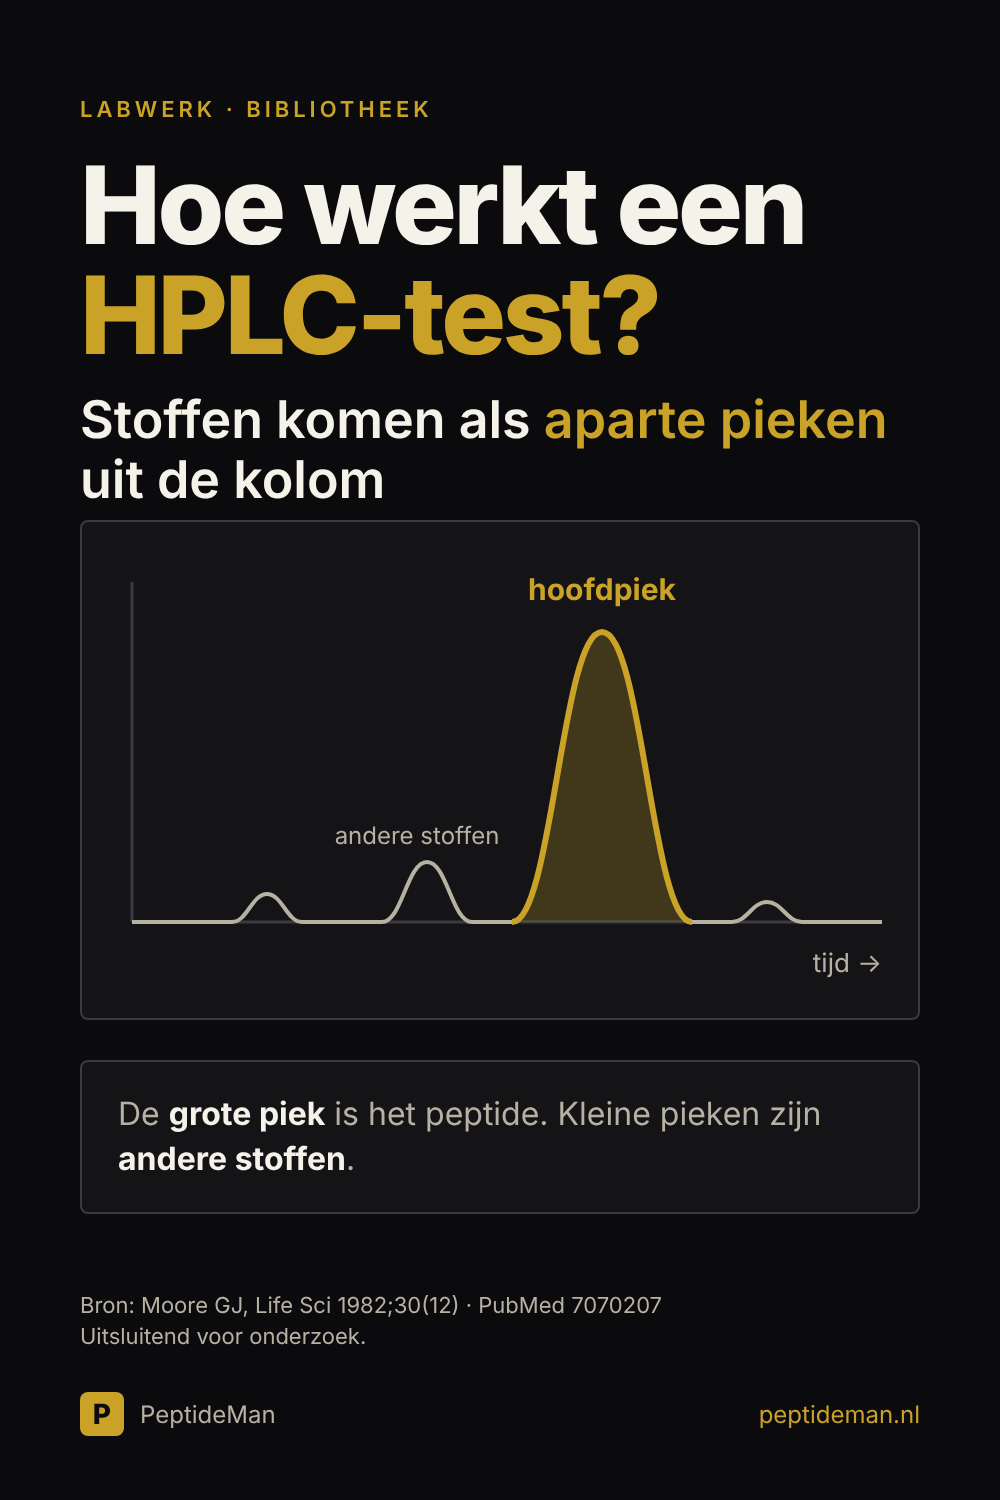
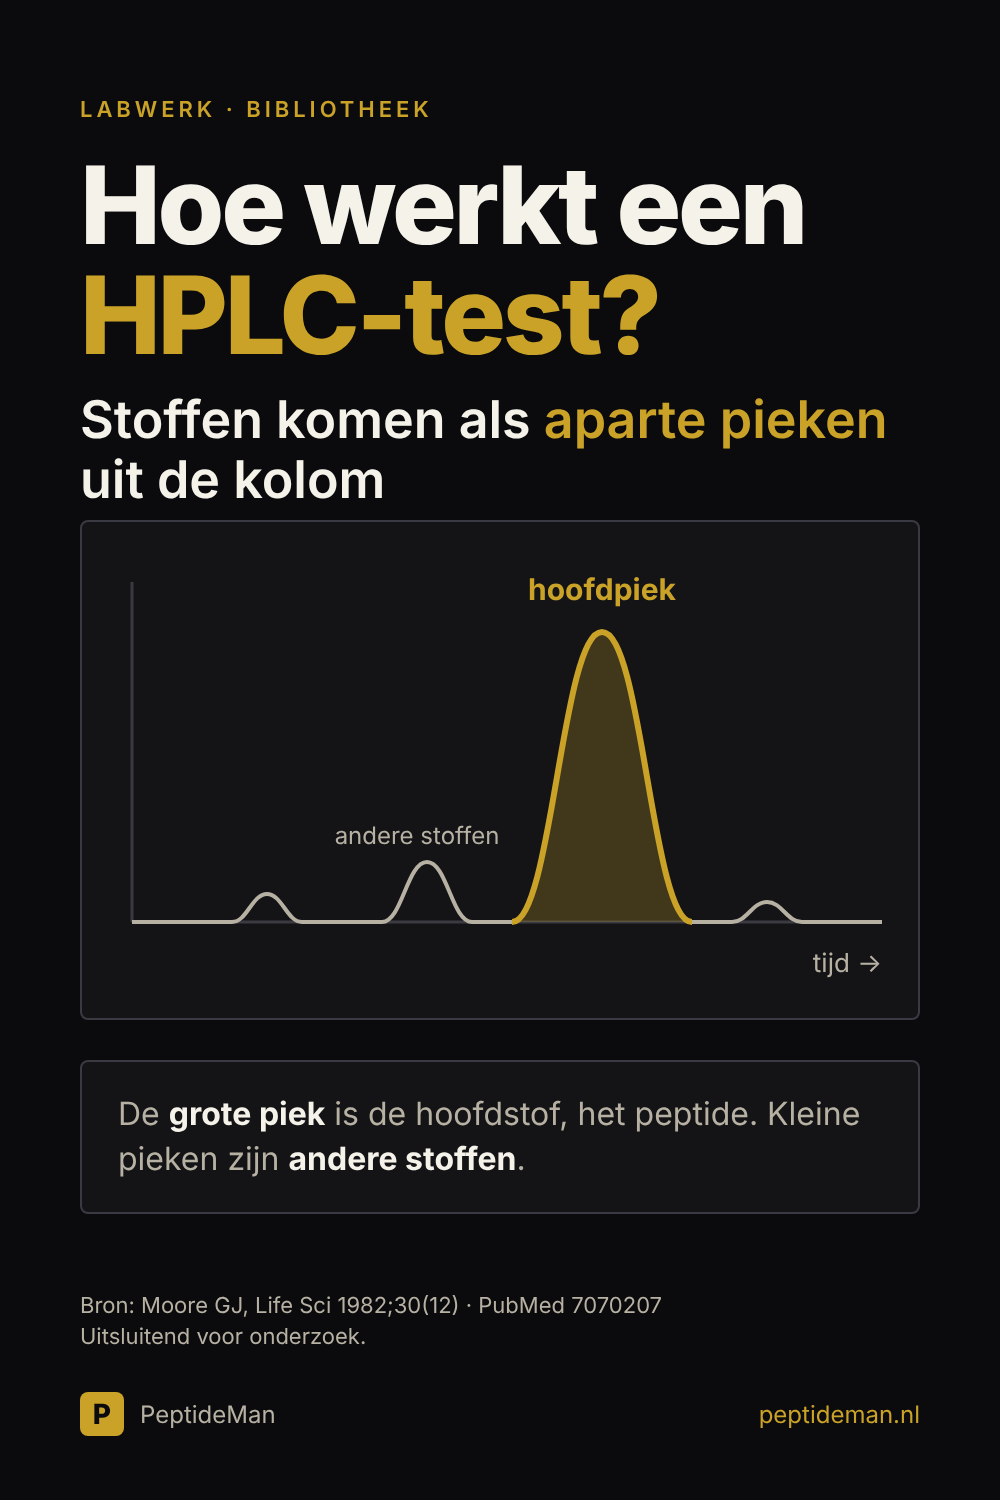
Weekplan w46: 7 posts met claimcheck GOED, beelden gerenderd (nog niet online, niet ingepland)
Claude-Session: https://claude.ai/code/session_01X3HvVKDakskuMJBigugZac

Changed region(s): [[0.124, 0.736, 0.868, 0.7973]]

diff --git a/posts/media/2026-11-10-weetje-insuline.html b/posts/media/2026-11-10-weetje-insuline.html
@@ -13,7 +13,7 @@ h1{position:absolute;top:410px;left:80px;right:80px;font-size:210px;line-height:
 .chain::before{content:"";position:absolute;left:30px;right:30px;top:50%;height:3px;background:var(--border)}
 .aa{position:relative;width:64px;height:64px;border-radius:50%;border:3px solid var(--gold);background:var(--bg)}
 .aa.f{background:var(--gold)}
-.big{position:absolute;top:1030px;left:80px;right:80px;background:var(--surface);border:2px solid var(--border);border-radius:8px;padding:30px 36px;font-size:34px;line-height:1.35}
+.big{position:absolute;top:900px;left:80px;right:80px;background:var(--surface);border:2px solid var(--border);border-radius:8px;padding:30px 36px;font-size:34px;line-height:1.35}
 .big b{color:var(--light)}
 .src{position:absolute;left:80px;right:80px;top:1290px;font-size:26px;line-height:1.4}
 .foot{position:absolute;left:80px;right:80px;bottom:64px;display:flex;align-items:center;gap:16px;font-size:24px}

diff --git a/posts/media/2026-11-09-labwerk-hplc.html b/posts/media/2026-11-09-labwerk-hplc.html
@@ -34,7 +34,7 @@ h1 span{color:var(--gold)}
 <text x="800" y="450" text-anchor="end" font-size="26" fill="#B7B1A3">tijd →</text>
 </svg>
 </div>
-<div class="big">De <b>grote piek</b> is het peptide. Kleine pieken zijn <b>andere stoffen</b>.</div>
+<div class="big">De <b>grote piek</b> is de hoofdstof, het peptide. Kleine pieken zijn <b>andere stoffen</b>.</div>
 <div class="src">Bron: Moore GJ, Life Sci 1982;30(12) · PubMed 7070207<br>Uitsluitend voor onderzoek.</div>
 <div class="foot"><div class="logo">P</div>PeptideMan<span class="url">peptideman.nl</span></div>
 </body></html>

diff --git a/posts/2026-11-09-labwerk-hplc.md b/posts/2026-11-09-labwerk-hplc.md
@@ -2,10 +2,10 @@ kanaal: Pinterest
 pijler: Labwerk
 pin-titel: Hoe werkt een HPLC-test?
 pin-link: https://peptideman.nl
-beeldtekst: Hoe werkt een HPLC-test? Stoffen komen als aparte pieken uit de kolom. De grote piek is het peptide. Kleine pieken zijn andere stoffen.
+beeldtekst: Hoe werkt een HPLC-test? Stoffen komen als aparte pieken uit de kolom. De grote piek is de hoofdstof, het peptide. Kleine pieken zijn andere stoffen.
 
 caption: |
-  Hoe werkt een HPLC-test? Een peptidemonster gaat door een kolom en elke stof komt op een eigen moment uit, als piek in een grafiek. De grote piek is het peptide, de kleine pieken zijn andere stoffen.
+  Hoe werkt een HPLC-test? Een peptidemonster gaat door een kolom en elke stof komt op een eigen moment uit, als piek in een grafiek. De grote piek is de hoofdstof (het peptide), de kleine pieken zijn andere stoffen.
 
   Soort bron: methodeartikel (1982), geen studie bij mensen.
 
@@ -17,5 +17,5 @@ bron: https://pubmed.ncbi.nlm.nih.gov/7070207/ (Moore GJ, Life Sci 1982;30(12). 
 
 beeld: posts/media/2026-11-09-labwerk-hplc.png
 beeld-url: open
-claimcheck: open
+claimcheck: GOED
 soort-bron: methodeartikel (1982, Life Sci). Abstract: reversed-phase HPLC is een snelle en effectieve techniek om de zuiverheid van synthetische peptiden te beoordelen en om milligramhoeveelheden synthetische peptiden te zuiveren; voorbeelden zijn angiotensines en neurohypofysaire hormonen. Geen studie bij mensen.

diff --git a/posts/2026-11-10-weetje-insuline.md b/posts/2026-11-10-weetje-insuline.md
@@ -1,6 +1,6 @@
 kanaal: Pinterest
 pijler: Weetje
-pin-titel: Wat was het eerste eiwit met een bekende aminozuurvolgorde?
+pin-titel: Wat is insuline? Het eerste eiwit waarvan de volgorde bekend werd
 pin-link: https://peptideman.nl
 beeldtekst: Insuline. Fred Sanger leidde de volgorde af en kreeg in 1958 zijn eerste Nobelprijs voor Scheikunde.
 
@@ -17,4 +17,4 @@ bron: https://pubmed.ncbi.nlm.nih.gov/33610859/ (Flier JS, Kahn CR. Mol Metab 20
 
 beeld: posts/media/2026-11-10-weetje-insuline.png
 beeld-url: open
-claimcheck: open
+claimcheck: GOED

diff --git a/posts/2026-11-13-vraag-peptidesynthese.md b/posts/2026-11-13-vraag-peptidesynthese.md
@@ -17,4 +17,4 @@ bron: https://pubmed.ncbi.nlm.nih.gov/18079725/ (Coin I, Beyermann M, Bienert M.
 
 beeld: posts/media/2026-11-13-vraag-peptidesynthese.png
 beeld-url: open
-claimcheck: open
+claimcheck: GOED

diff --git a/posts/2026-11-15-weetje-klein-hormoon.md b/posts/2026-11-15-weetje-klein-hormoon.md
@@ -14,4 +14,4 @@ soort-bron: overzichtsartikel (geschiedenis en fysiologie), geen eigen experimen
 
 beeld: posts/media/2026-11-15-weetje-klein-hormoon.png
 beeld-url: open
-claimcheck: open
+claimcheck: GOED

diff --git a/posts/2026-11-11-mythe-peptide-eiwit.md b/posts/2026-11-11-mythe-peptide-eiwit.md
@@ -17,4 +17,4 @@ bron: https://pubmed.ncbi.nlm.nih.gov/32965931/ (Protein Structure and Function,
 
 beeld: posts/media/2026-11-11-mythe-peptide-eiwit.png
 beeld-url: open
-claimcheck: open
+claimcheck: GOED

diff --git a/posts/2026-11-14-labwerk-99-procent.md b/posts/2026-11-14-labwerk-99-procent.md
@@ -14,4 +14,4 @@ soort-bron: methodeartikel (analytische chemie, synthetisch standaardpeptide), g
 
 beeld: posts/media/2026-11-14-labwerk-99-procent.png
 beeld-url: open
-claimcheck: open
+claimcheck: GOED

diff --git a/posts/2026-11-12-labwerk-lcms.md b/posts/2026-11-12-labwerk-lcms.md
@@ -17,4 +17,4 @@ bron: https://pubmed.ncbi.nlm.nih.gov/26424265/ (Prabhala BK, Mirza O, Højrup P
 
 beeld: posts/media/2026-11-12-labwerk-lcms.png
 beeld-url: open
-claimcheck: open
+claimcheck: GOED
